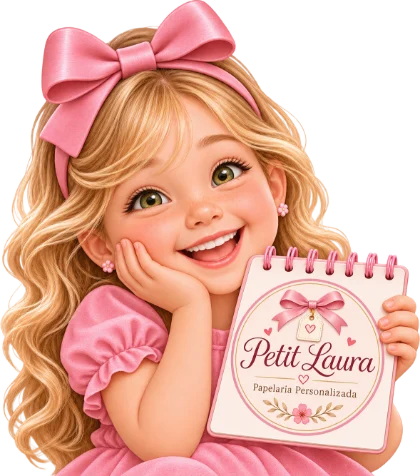
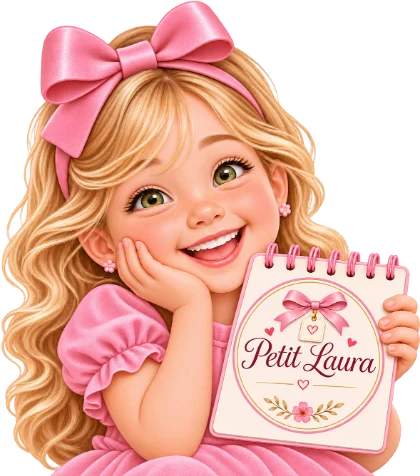
feat: botoes da loja e do WhatsApp como Em breve e nova Laurinha sem a frase antiga

diff --git a/js/main.js b/js/main.js
@@ -15,7 +15,8 @@ const CONFIG = {
   links: {
     instagram: "https://www.instagram.com/petitlaura.oficial",
     shopee: "https://shopee.com.br/petitlaura",
-    loja: "https://petitlaura.com.br", // loja oficial: catálogo completo (prontos + personalizáveis)
+    // Loja oficial (catálogo completo). Vazio = botões em "Em breve". Quando a loja abrir: "https://petitlaura.com.br"
+    loja: "",
   },
 
   // Parâmetros de origem, para saber no Shopee/loja quem veio da landing
@@ -77,9 +78,16 @@ const CONFIG = {
         el.querySelector(".badge")?.remove();
       }
     } else {
+      // Sem link ainda: o botão aparece como "Em breve" e avisa ao tocar
+      if (el.classList.contains("btn")) {
+        el.classList.add("btn--soon");
+        el.setAttribute("aria-disabled", "true");
+        const label = el.querySelector(".btn__label");
+        if (label && !label.querySelector(".badge")) label.insertAdjacentHTML("beforeend", '<span class="badge">Em breve</span>');
+      }
       el.addEventListener("click", (e) => {
         e.preventDefault();
-        toast(key === "loja" ? "Nossa loja chega em breve 💕" : "Link em breve 💕");
+        toast(key === "loja" ? "Nossa loja chega em breve 💕" : key === "whatsapp" ? "WhatsApp em breve 💕" : "Link em breve 💕");
       });
     }
   });

diff --git a/css/style.css b/css/style.css
@@ -117,7 +117,9 @@ h2 .script { font-size: 1.18em; }
 .btn--wa .btn__label { color: var(--ink); }
 .btn--ghost { background: rgba(255, 255, 255, 0.75); color: var(--wine); border-color: var(--pink); backdrop-filter: blur(4px); }
 
-.btn--soon { background: rgba(255, 255, 255, 0.5); border-style: dashed; color: var(--ink-soft); cursor: default; }
+.btn--soon { background: rgba(255, 255, 255, 0.5); border-style: dashed; border-color: var(--pink); color: var(--ink-soft); box-shadow: none; cursor: default; }
+.btn--soon .ico { opacity: 0.6; }
+.btn--soon .btn__label { color: var(--ink-soft); }
 .btn--soon .chev { display: none; }
 .badge {
   display: inline-block; margin-left: 6px; padding: 2px 10px; border-radius: 999px;
